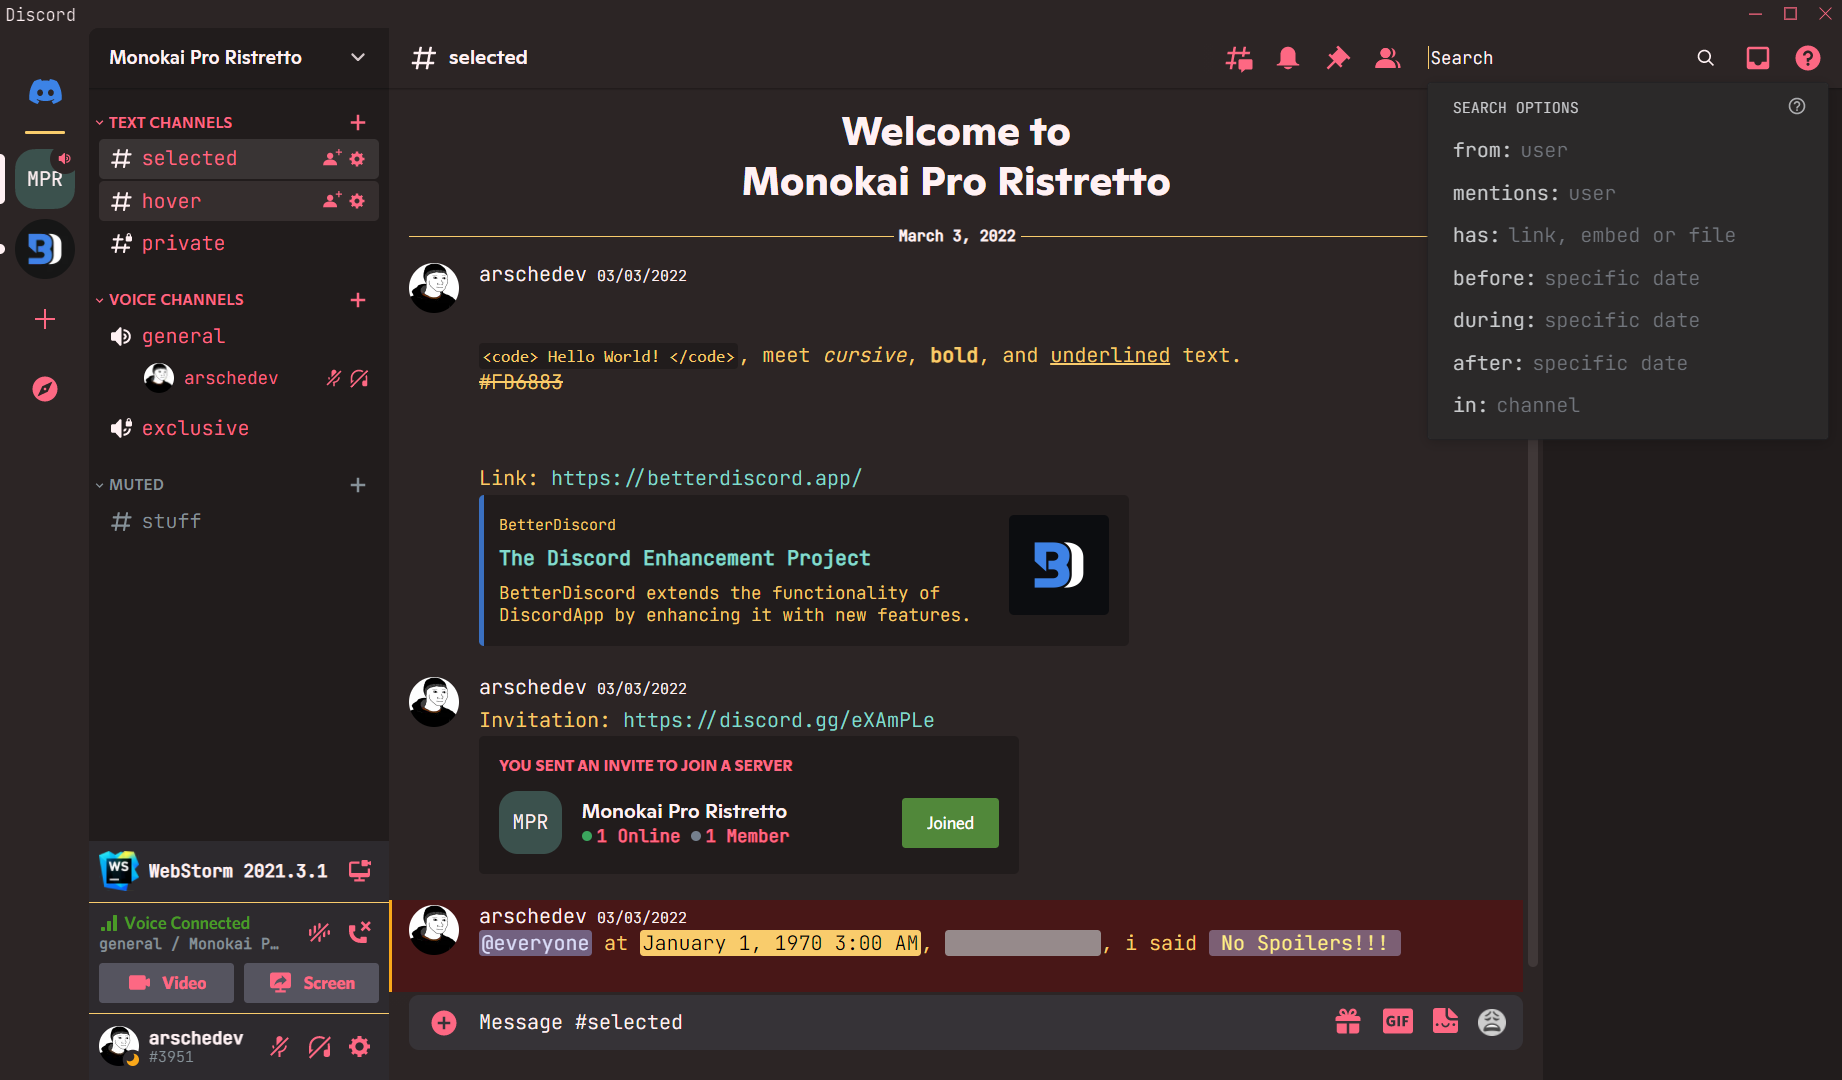
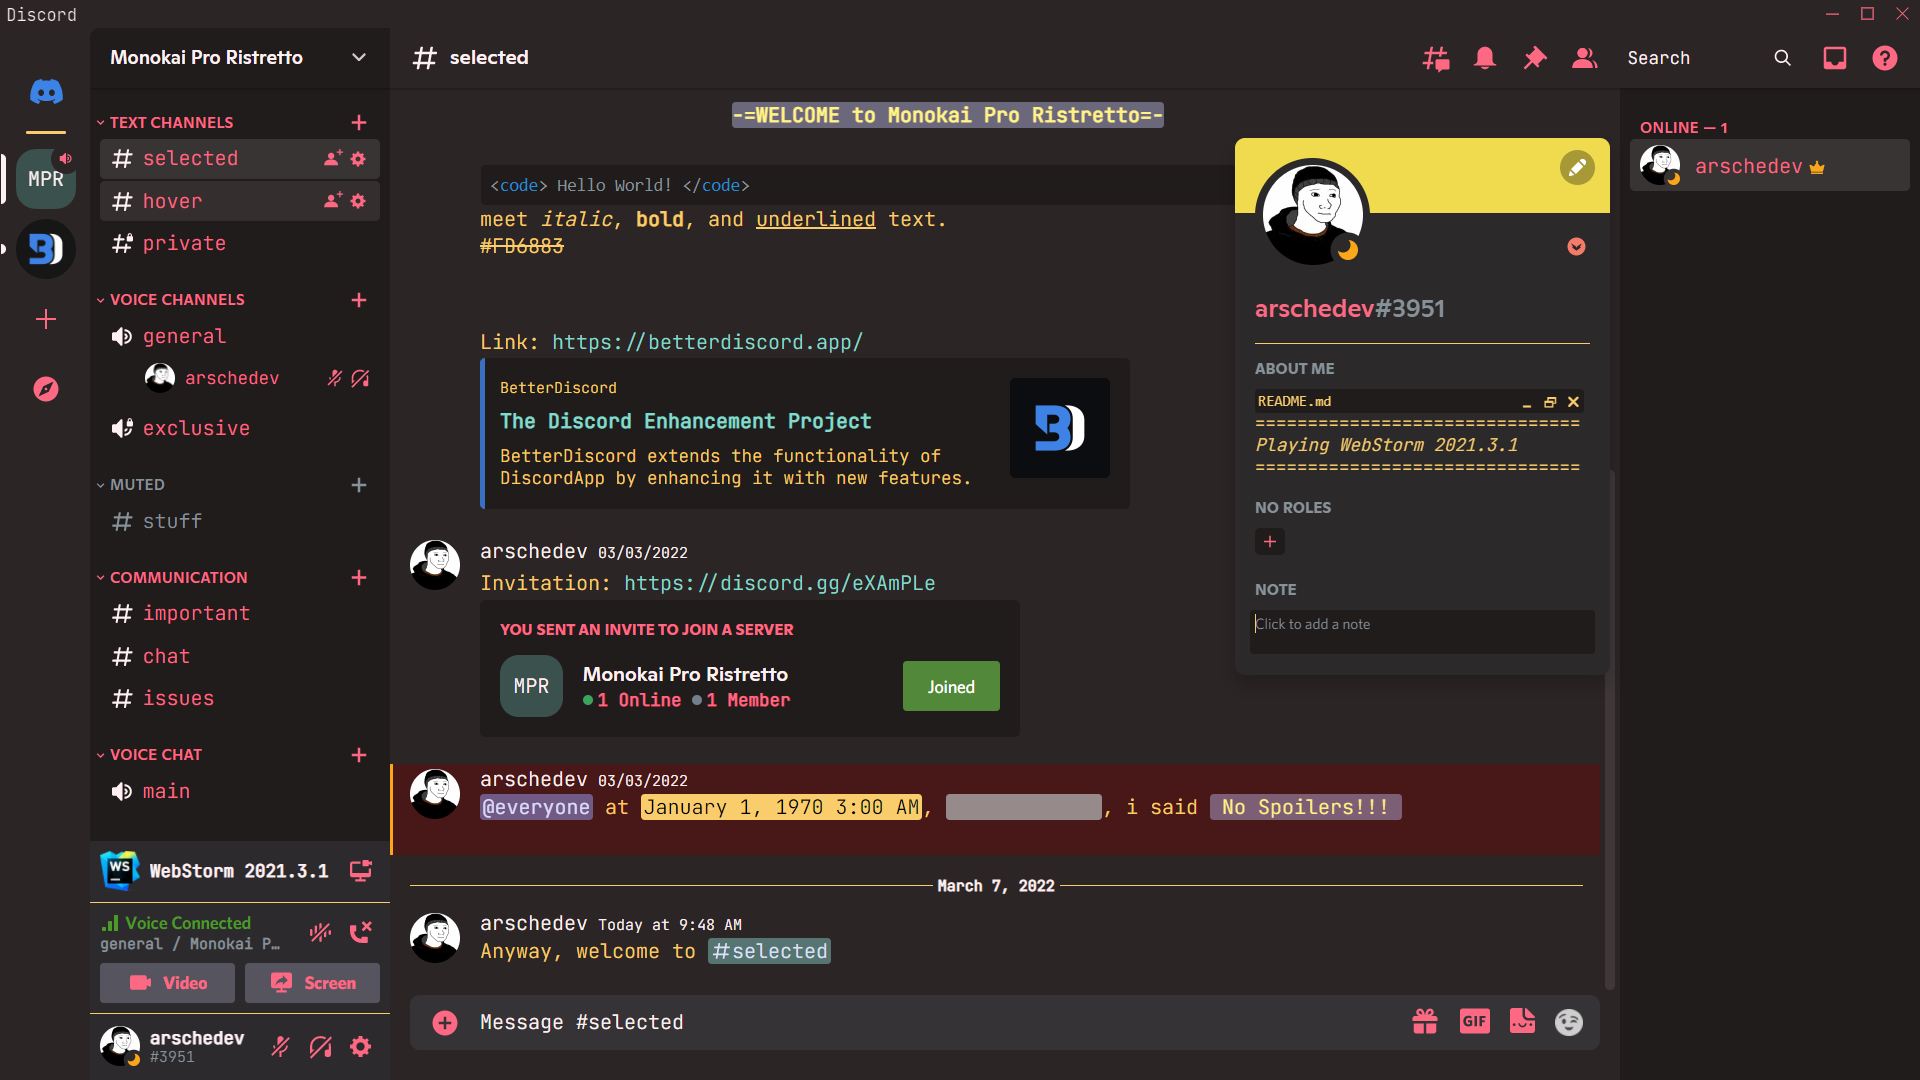
MonokaiProRistretto-v1.0.4

diff --git a/Themes/MonokaiProRistretto/css/MonokaiProRistretto.theme.css b/Themes/MonokaiProRistretto/css/MonokaiProRistretto.theme.css
@@ -1,13 +1,14 @@
 /**
- * @name Monokai-Pro-Ristretto
+ * @name Monokai Pro Ristretto
  * @author @arschedev
  * @authorLink https://github.com/arschedev
- * @version 1.0.3
+ * @version 1.0.4
  * @description Monokai Pro Theme with Ristretto Filter (JetBrains IDE Styled)
+Original implementation: https://plugins.jetbrains.com/plugin/13643-monokai-pro-theme
  * @source https://github.com/arschedev/BetterDiscord/tree/main/Themes/MonokaiProRistretto
 */
 
-/* Commit: MonokaiProRistretto-v1.0.3 */
+/* Commit: MonokaiProRistretto-v1.0.4 */
 
 /* Font */
 @import url('https://fonts.googleapis.com/css2?family=JetBrains+Mono:wght@300&display=swap');
@@ -18,7 +19,7 @@ html, body {
 
                                 /*! ---====ROOT====--- */
 
-:root, .theme-light, .theme-dark {
+:root, .theme-dark, .theme-light {
     /*! Primary */
     --background-primary:                                       #2C2525;
     --background-secondary:                                     #211C1C;
@@ -63,7 +64,7 @@ html, body {
     --brand-experiment-15a: #8988B926;
     --brand-experiment-20a: #8988B933;
     --brand-experiment-25a: #8988B940;
-    --brand-experiment-30a: rgba(137, 136, 185, .65);
+    --brand-experiment-30a: hsla(272, 19.5%, 44%, 1); 
     --brand-experiment-35a: #8988B959;
     --brand-experiment-40a: #8988B966;
     --brand-experiment-45a: #8988B973;
@@ -82,7 +83,9 @@ html, body {
 
                                 /*! --==VARIABLES===-- */
 
-:root, .theme-light, .theme-dark {
+:root, .theme-dark, .theme-light {
+    --transition-in-long: calc(.228866s * 1.5) ease-in-out;
+    --transition-out-long: .calc(.3433s * 1.5) ease-in-out;
     --transition-in: .228866s ease-in-out;
     --transition-out: .3433s ease-in-out;
     --transition-in-medium: calc(.228866s / 1.5) ease-in-out;
@@ -97,10 +100,55 @@ html, body {
 
                                 /*! ---====CSS=====--- */
 
+
+/*! Text Area */
+.textarea-_59yqs:focus {
+    background-color:                                           var(--background-secondary);
+}
+.textarea-_59yqs {
+    background-color:                                           transparent;
+    transition: background-color var(--transition-out-short);
+}
+
+/*! Roles List */ 
+.role-2TIOKu {
+    background-color:                                           var(--background-secondary);
+}
+
+/*! Mentions */
+/*All*/
+.mention {
+    color:                                                      #FFF1F3;
+}
+.mention:hover {
+    color:                                                      #ffffff;
+}
+/*Channel*/
+.iconMention-3WxjBe.iconMentionText-1_WCtN.mention {
+    background-color:                                           hsla(169, 15%, 40%, 1);
+}
+
+/*! Jump to present Bar */
+.jumpToPresentBar-1cEnH0 {
+    background-color:                                           rgba(59, 81, 77, .925);
+    transition: background-color var(--transition-out-long); 
+    /*why tf is transition not working... */
+}
+.jumpToPresentBar-1cEnH0:hover {
+    background-color:                                           rgba(59, 81, 77, 1);
+    transition: background-color var(--transition-in);
+}
+
 /*! New Messages Bar */
+.newMessagesBar-1hF-9G {
+    background-color:                                           hsla(241, 25%, 62%, .8);
+    transition: background-color var(--transition-out-short);
+}
 .newMessagesBar-1hF-9G:hover {
     background-color:                                           hsla(241, 25%, 62%, 1);
+    transition: background-color var(--transition-in-medium);
 }
+
 
 /*! No Icon */ 
 .noIcon-3gSX9V {
@@ -143,6 +191,9 @@ button.button-1EGGcP.buttonColor-3bP3fX.button-f2h6uQ.lookFilled-yCfaCM.colorBra
 /*! Windows & Modals, e.g Change Log */
 .modal-3Hrb0S {
     background-color: var(--background-secondary) !important;
+}
+.theme-dark .footer-31IekZ, .theme-light .footer-31IekZ {
+    background-color: var(--background-secondary-alt) !important;   
 }
 .fullscreenOnMobile-ixj0e3 {
     background-color: var(--background-secondary) !important;
@@ -309,6 +360,9 @@ button.button-1EGGcP.buttonColor-3bP3fX.button-f2h6uQ.lookFilled-yCfaCM.colorBra
     background:                                                 var(--background-mentioned-hover);
     transition: background var(--transition-in-short-x);
 }
+.message-2CShn3.cozyMessage-1DWF9U.groupStart-3Mlgv1.wrapper-30-Nkg.cozy-VmLDNB.zalgo-26OfGz.mentioned-Tre-dv:hover .mention {
+    color:                                                      #ffffff;
+}
 .message-2CShn3.cozyMessage-1DWF9U.wrapper-30-Nkg.cozy-VmLDNB.zalgo-26OfGz.mentioned-Tre-dv {
     background:                                                 var(--background-mentioned);
     transition: background var(--transition-out-short-x);
@@ -316,6 +370,9 @@ button.button-1EGGcP.buttonColor-3bP3fX.button-f2h6uQ.lookFilled-yCfaCM.colorBra
 .message-2CShn3.cozyMessage-1DWF9U.wrapper-30-Nkg.cozy-VmLDNB.zalgo-26OfGz.mentioned-Tre-dv:hover {
     background:                                                 var(--background-mentioned-hover);
     transition: background var(--transition-in-short-x);
+}
+.message-2CShn3.cozyMessage-1DWF9U.wrapper-30-Nkg.cozy-VmLDNB.zalgo-26OfGz.mentioned-Tre-dv:hover .mention {
+    color:                                                      #ffffff;
 }
 
 /*! Buttons Strikethrough */
@@ -461,7 +518,7 @@ button.footerButton-24QPis.button-f2h6uQ.lookFilled-yCfaCM.colorGrey-2iAG-B.size
 
 /*! Info */
 .info-3pQQBb:last-child::after {
-  content: "\00000a\00000a======================\00000aTheme:\00000aMonokai Pro Ristretto\00000aVersion 1.0.3\00000aby @arschedev /\00000a / arschedev#3951 \00000aBottom Text\00000a======================\00000a";
+  content: "\00000a\00000a======================\00000aTheme:\00000aMonokai Pro Ristretto\00000aVersion 1.0.4\00000aby @arschedev /\00000a / arschedev#3951 \00000aBottom Text\00000a======================\00000a";
   text-transform: none;
   white-space: pre; 
   font-size: 12px;
@@ -487,10 +544,12 @@ button.footerButton-24QPis.button-f2h6uQ.lookFilled-yCfaCM.colorGrey-2iAG-B.size
 
 /* yo, DevilBro, your code is so good */
 
-:root {
-    --settingsModalBackground:                                  transparent;
-    --settingsModalWidth:                                       83vw;
-    --settingsModalHeight:                                      67vh;
+
+/*! Variables */
+:root, .theme-dark, .theme-light {
+    --settingsModal-background:                                 transparent;
+    --settingsModal-width:                                      83vw;
+    --settingsModal-height:                                     67vh;
 }
 
 #app-mount .baseLayer-W6S8cY {
@@ -525,11 +584,11 @@ button.footerButton-24QPis.button-f2h6uQ.lookFilled-yCfaCM.colorGrey-2iAG-B.size
     right: 0 !important;
     bottom: 0 !important;
     left: 0 !important;
-    background: var(--settingsModalBackground) !important;
+    background: var(--settingsModal-background) !important;
     border-radius: 5px !important;
     box-shadow: var(--elevation-high) !important;
-    width: var(--settingsModalWidth) !important;
-    height: var(--settingsModalHeight) !important;
+    width: var(--settingsModal-width) !important;
+    height: var(--settingsModal-height) !important;
     margin: auto !important;
     padding: 0 !important;
     overflow: hidden !important;
@@ -558,15 +617,15 @@ button.footerButton-24QPis.button-f2h6uQ.lookFilled-yCfaCM.colorGrey-2iAG-B.size
 }
 
 #app-mount .layer-86YKbF ~ .layer-86YKbF .sidebar-3K3Z4C {
-    height: var(--settingsModalHeight) !important;
+    height: var(--settingsModal-height) !important;
 }
 
 #app-mount .layer-86YKbF ~ .layer-86YKbF .repoHeader-2KfNvH {
-    max-width: calc(var(--settingsModalWidth) - 256px) !important;;
+    max-width: calc(var(--settingsModal-width) - 256px) !important;;
 }
 
 #app-mount .layer-86YKbF ~ .layer-86YKbF .standardSidebarView-E9Pc3j .editor {
-    height: calc(var(--settingsModalHeight) - 120px) !important;
+    height: calc(var(--settingsModal-height) - 120px) !important;
 }
 
 #app-mount .layer-86YKbF ~ .layer-86YKbF .toolsContainer-25FL6V,
@@ -602,6 +661,6 @@ button.footerButton-24QPis.button-f2h6uQ.lookFilled-yCfaCM.colorGrey-2iAG-B.size
 }
 
 #app-mount .layer-86YKbF ~ .layer-86YKbF .header-2Kx1US {
-    max-width: calc(var(--settingsModalWidth) - 730px) !important;
+    max-width: calc(var(--settingsModal-width) - 730px) !important;
 }
 

diff --git a/Themes/MonokaiProRistretto/README.md b/Themes/MonokaiProRistretto/README.md
@@ -2,7 +2,7 @@
 # Monokai Pro Ristretto 
 ***
 
-## Preview 
+## Preview (v1.0.4)
 ![PREVIEW](https://raw.githubusercontent.com/arschedev/BetterDiscord/main/Themes/MonokaiProRistretto/preview.png)
 ---
 
